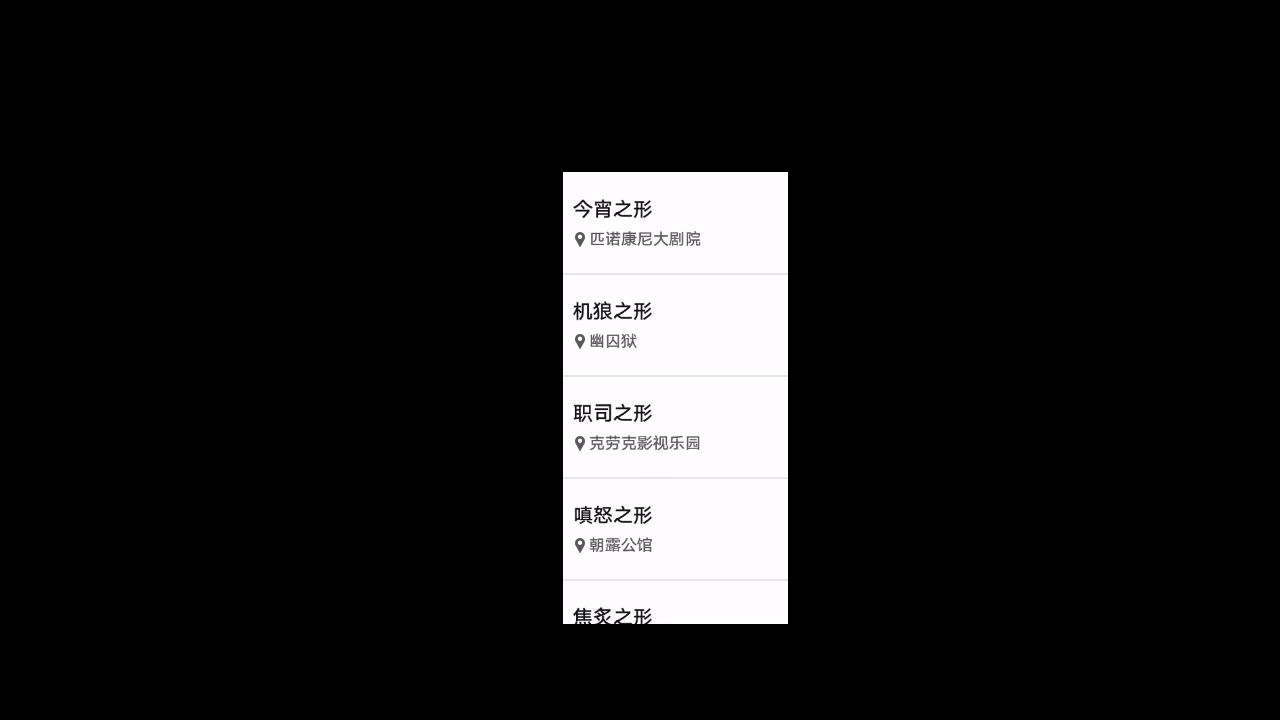
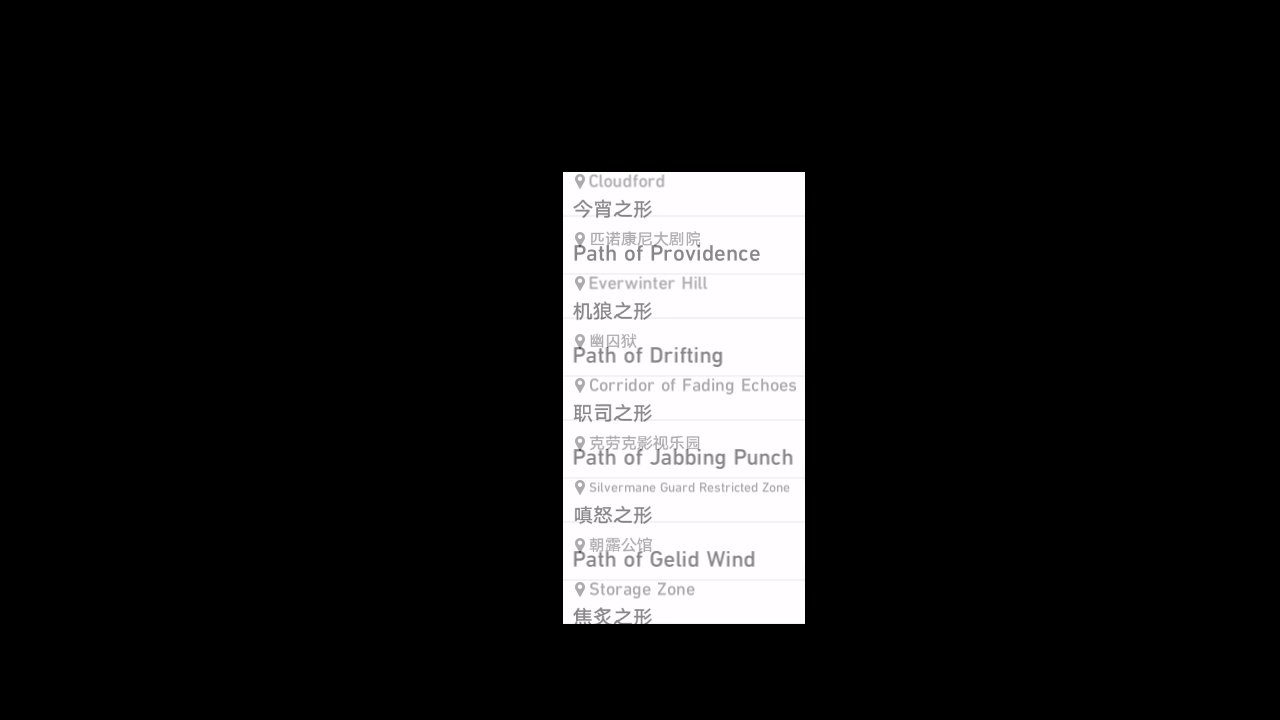
Upd: [EN] Expand OCR_DUNGEON_NAME (fixed #651)

Changed region(s): [[0.4375, 0.2444, 0.6562, 0.8861]]

diff --git a/tasks/dungeon/assets/assets_dungeon_ui_list.py b/tasks/dungeon/assets/assets_dungeon_ui_list.py
@@ -47,20 +47,20 @@ OCR_DUNGEON_NAME = ButtonWrapper(
     name='OCR_DUNGEON_NAME',
     share=Button(
         file='./assets/share/dungeon/ui_list/OCR_DUNGEON_NAME.png',
-        area=(563, 172, 788, 624),
-        search=(543, 152, 808, 644),
-        color=(245, 243, 245),
-        button=(563, 172, 788, 624),
+        area=(563, 172, 805, 624),
+        search=(543, 152, 825, 644),
+        color=(244, 242, 244),
+        button=(563, 172, 805, 624),
     ),
 )
 OCR_DUNGEON_NAME_ROGUE = ButtonWrapper(
     name='OCR_DUNGEON_NAME_ROGUE',
     share=Button(
         file='./assets/share/dungeon/ui_list/OCR_DUNGEON_NAME_ROGUE.png',
-        area=(563, 292, 788, 624),
-        search=(543, 272, 808, 644),
-        color=(249, 247, 249),
-        button=(563, 292, 788, 624),
+        area=(563, 292, 805, 624),
+        search=(543, 272, 825, 644),
+        color=(246, 244, 246),
+        button=(563, 292, 805, 624),
     ),
 )
 OCR_DUNGEON_TELEPORT = ButtonWrapper(
